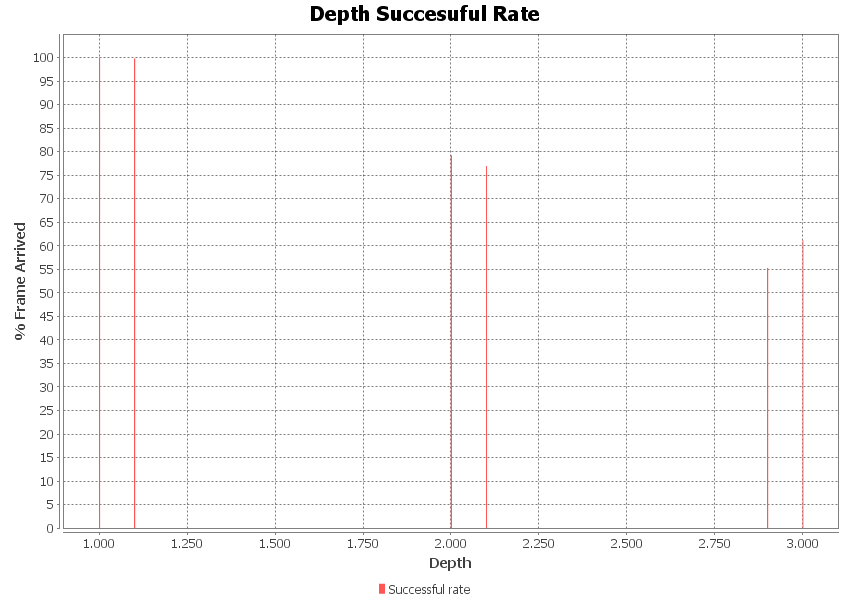
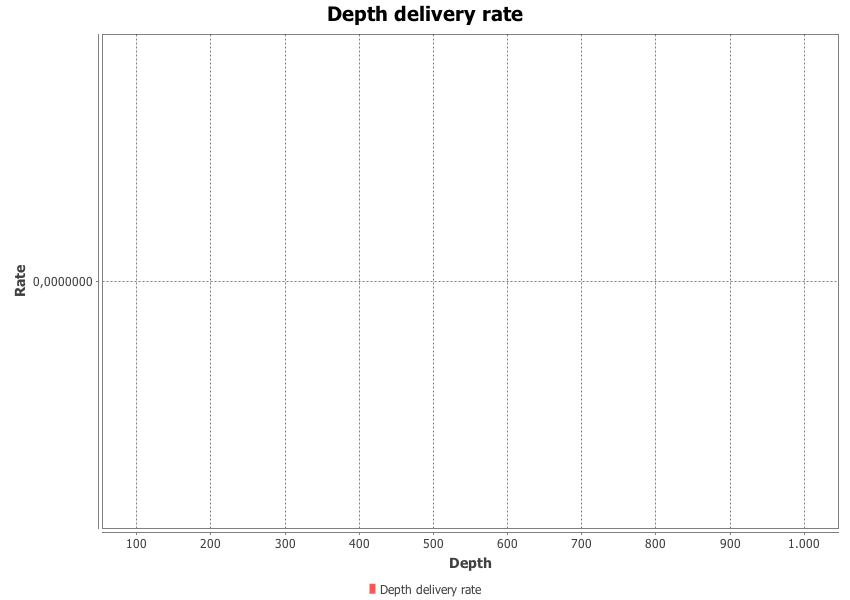
nomi grafici

diff --git a/src/main/java/app/utils/charts/ChartModalities.java b/src/main/java/app/utils/charts/ChartModalities.java
@@ -27,7 +27,7 @@ public class ChartModalities implements Chart {
 
     private static JFreeChart createChart (XYDataset dataset) {
 
-        JFreeChart chart = ChartFactory.createXYLineChart("Sensor status ratio", "Samples", "Rate", dataset, PlotOrientation.VERTICAL, true, true, false);
+        JFreeChart chart = ChartFactory.createXYLineChart("Sensor status rate", "Samples", "Rate", dataset, PlotOrientation.VERTICAL, true, true, false);
 
         XYPlot plot = chart.getXYPlot();
 
@@ -64,7 +64,7 @@ public class ChartModalities implements Chart {
 
     private static XYDataset createDataset (List<AbstractSimInstance> instances) {
 
-        XYSeries series = new XYSeries("Trasmission modality rate");
+        XYSeries series = new XYSeries("Transmission status rate");
         double mean = 0;
         for (int j = 0; j < H20Sim.N_SAMPLES; j++) {
             double transmissionModeRateAcc = 0;
@@ -78,7 +78,7 @@ public class ChartModalities implements Chart {
         }
         System.out.println("transmitting: " + mean/(H20Sim.N_SAMPLES/2));
 
-        XYSeries series2 = new XYSeries("Receiving modality rate");
+        XYSeries series2 = new XYSeries("Receiving status rate");
         mean = 0;
         for (int j = 0; j < H20Sim.N_SAMPLES; j++) {
             double receivingModeRateAcc = 0;
@@ -92,7 +92,7 @@ public class ChartModalities implements Chart {
         }
         System.out.println("receiving: " + mean/(H20Sim.N_SAMPLES/2));
 
-        XYSeries series3 = new XYSeries("Sleep modality rate");
+        XYSeries series3 = new XYSeries("Idle status rate");
         mean = 0;
         for (int j = 0; j < H20Sim.N_SAMPLES; j++) {
             double sleepModeRateAcc = 0;

diff --git a/src/main/java/app/utils/MyLib.java b/src/main/java/app/utils/MyLib.java
@@ -29,13 +29,13 @@ public class MyLib {
     public static List<Sensor> calculateNeighbors (Sensor sensor, SimContext context) {
         List<Sensor> myNeighbors = new ArrayList<>();
         for (Sensor sensor1 : context.getSensors()) {
-            if (sensor.getEuclideanDistance(sensor1) <= 1500) {//(powerReceived(sensor.getEuclideanDistance(sensor1)) > H20Sim.SENSIBILITY) {
+            if (sensor.getEuclideanDistance(sensor1) <= 0) {//(powerReceived(sensor.getEuclideanDistance(sensor1)) > H20Sim.SENSIBILITY) {
                 if (sensor != sensor1) {
                     myNeighbors.add(sensor1);
                 }
             }
         }
-        System.out.println(myNeighbors.size());
+        //System.out.println(myNeighbors.size());
         return myNeighbors;
     }
 
@@ -76,6 +76,7 @@ public class MyLib {
         return acc;
     }
 
+
     /**
      * @param distance
      * @return dB
@@ -103,7 +104,7 @@ public class MyLib {
 
 
     public static boolean deterministicProtocol (Transmission transmission, SimContext context) {
-        if (transmission.getHop() > 3) {
+        if (transmission.getHop() > 5) {
             return false;
         }
         if (H20Sim.PROTOCOL.equals("Deterministic") || H20Sim.PROTOCOL.equals("Combined")) {

diff --git a/src/main/java/app/utils/charts/ChartDepthSuccessRate.java b/src/main/java/app/utils/charts/ChartDepthSuccessRate.java
@@ -28,7 +28,7 @@ public class ChartDepthSuccessRate implements Chart {
 
     public static JFreeChart createChart (IntervalXYDataset dataset) {
 
-        final JFreeChart chart = ChartFactory.createXYBarChart("Depth Succesuful Rate", "Depth", false, "% Frame Arrived", dataset, PlotOrientation.VERTICAL, true, true, false);
+        final JFreeChart chart = ChartFactory.createXYBarChart("Depth delivery rate", "Depth", false, "Rate", dataset, PlotOrientation.VERTICAL, true, true, false);
         XYPlot plot = (XYPlot) chart.getPlot();
         plot.setBackgroundPaint(Color.white);
 
@@ -58,7 +58,7 @@ public class ChartDepthSuccessRate implements Chart {
 
     private static IntervalXYDataset createDataset ( List<AbstractSimInstance> instances) {
         Map<Integer, Double> stats = new HashMap<>();
-        XYSeries series = new XYSeries("Successful rate");
+        XYSeries series = new XYSeries("Depth delivery rate");
 
         for (int j = 0; j < H20Sim.N_SAMPLES; j++) {
             for (AbstractSimInstance context : instances) {

diff --git a/src/main/java/app/utils/charts/ChartSuccessfulRate.java b/src/main/java/app/utils/charts/ChartSuccessfulRate.java
@@ -26,7 +26,7 @@ public class ChartSuccessfulRate implements Chart {
 
     static JFreeChart createChart (XYDataset dataset) {
 
-        JFreeChart chart = ChartFactory.createXYLineChart("Packet Delivery Ratio", "Samples", "% Frames arrived", dataset, PlotOrientation.VERTICAL, true, true, false);
+        JFreeChart chart = ChartFactory.createXYLineChart("Packet delivery rate", "Samples", "Rate", dataset, PlotOrientation.VERTICAL, true, true, false);
 
         XYPlot plot = chart.getXYPlot();
 
@@ -57,7 +57,7 @@ public class ChartSuccessfulRate implements Chart {
 
     private static XYDataset createDataset (List<AbstractSimInstance> instances) {
 
-        XYSeries series = new XYSeries("Successful rate");
+        XYSeries series = new XYSeries("Packet delivery rate");
         double mean = 0;
         for (int j = 0; j < H20Sim.N_SAMPLES; j++) {
             double successfullRateAcc = 0;

diff --git a/src/main/java/app/utils/charts/ChartResponseTime.java b/src/main/java/app/utils/charts/ChartResponseTime.java
@@ -26,7 +26,7 @@ public class ChartResponseTime implements Chart {
 
     static JFreeChart createChart (XYDataset dataset) {
 
-        JFreeChart chart = ChartFactory.createXYLineChart("End-To-End Delay", "Samples", "Response Time (s)", dataset, PlotOrientation.VERTICAL, true, true, false);
+        JFreeChart chart = ChartFactory.createXYLineChart("End-to-end Delay", "Samples", "Delay (s)", dataset, PlotOrientation.VERTICAL, true, true, false);
 
         XYPlot plot = chart.getXYPlot();
 
@@ -56,7 +56,7 @@ public class ChartResponseTime implements Chart {
     }
 
     private static XYDataset createDataset (List<AbstractSimInstance> instances) {
-        XYSeries series = new XYSeries("Response time");
+        XYSeries series = new XYSeries("End-to-end delay");
         double mean = 0;
         for (int j = 0; j < H20Sim.N_SAMPLES; j++) {
             double successfullRateAcc = 0;

diff --git a/src/main/java/app/sim/h20serial/SerialSim.java b/src/main/java/app/sim/h20serial/SerialSim.java
@@ -13,7 +13,7 @@ public abstract class SerialSim extends SimulationInstance {
 
     public SerialSim (Collector collector, Scheduler scheduler, String instanceName, double min, double max) {
         super(collector, scheduler, instanceName);
-        this.min = min;
+        this.min = 400;
         this.interval = (max - min) * 0.2;
         setName(instanceName);
     }
@@ -21,9 +21,9 @@ public abstract class SerialSim extends SimulationInstance {
     @Override
     public void setPercentageCompleted () {
         super.setPercentageCompleted();
-        if (super.getPercentageCompleted() % 20 == 0) { //TODO attenzione
-            min += interval;
+        if (super.getPercentageCompleted() % 25 == 0) { //TODO attenzione
             System.out.println(min);
+            min += 150;
 
             //pulisco tutto
             getScheduler().clear();

diff --git a/src/main/java/app/utils/charts/ChartThroughput.java b/src/main/java/app/utils/charts/ChartThroughput.java
@@ -26,7 +26,7 @@ public class ChartThroughput implements Chart {
 
     private static JFreeChart createChart (XYDataset dataset) {
 
-        JFreeChart chart = ChartFactory.createXYLineChart("Throughput", "Samples", "Frame/s", dataset, PlotOrientation.VERTICAL, true, true, false);
+        JFreeChart chart = ChartFactory.createXYLineChart("Goodput", "Samples", "Packets/s", dataset, PlotOrientation.VERTICAL, true, true, false);
 
         XYPlot plot = chart.getXYPlot();
 
@@ -61,7 +61,7 @@ public class ChartThroughput implements Chart {
 
     private static XYDataset createDataset (List<AbstractSimInstance> instances) {
 
-        XYSeries series = new XYSeries("Throughput");
+        XYSeries series = new XYSeries("Goodput");
         double mean = 0;
         for (int j = 0; j < H20Sim.N_SAMPLES; j++) {
             double successfullRateAcc = 0;

diff --git a/src/main/java/app/sim/h20G/GraphicSim.java b/src/main/java/app/sim/h20G/GraphicSim.java
@@ -42,7 +42,7 @@ public class GraphicSim extends AbstractSimInstance {
         GraphicsDevice device = GraphicsEnvironment.getLocalGraphicsEnvironment().getDefaultScreenDevice();
         DisplayMode[] modes = device.getDisplayModes();
         int i = 0; // note: there are usually several, let's pick the first
-        settings.setResolution(1400, 900);
+        settings.setResolution(1920, 1080);
         settings.setFrequency(modes[i].getRefreshRate());
         settings.setBitsPerPixel(modes[i].getBitDepth());
         settings.setFullscreen(false);
